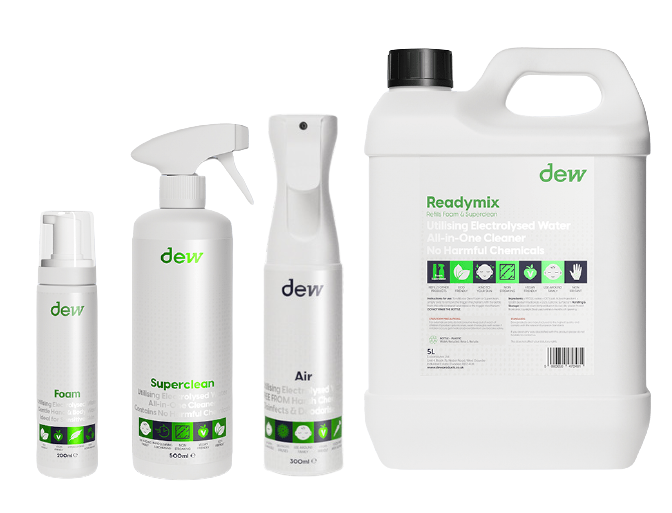
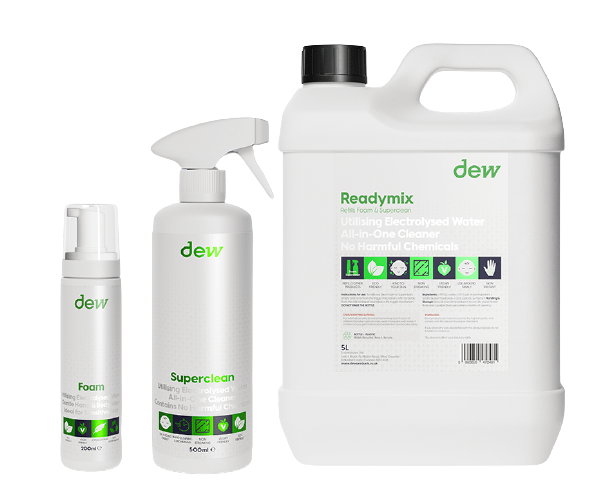
changed category images

diff --git a/src/pages/index.js b/src/pages/index.js
@@ -4,10 +4,10 @@ import Helmet from 'react-helmet'
 import Layout from '../components/layout'
 import HomepageBanner from '../components/HomepageBanner'
 
-import disinfectPack from '../assets/images/DisinfectPack2_1296x.png'
+import cleanProtection from '../assets/images/cleanProtection.png'
 import officeMister from '../assets/images/officeMister.jpg'
 import foggingMachine from '../assets/images/foggingMachine.jpg'
-import supercleanPack from '../assets/images/SupercleanPack2_1296x.png'
+import handSanitiser from '../assets/images/handSanitiser.png'
 
 class HomeIndex extends React.Component {
   render() {
@@ -49,17 +49,17 @@ class HomeIndex extends React.Component {
               </header>
               <Link to="/foggers_misters" className="link primary"></Link>
             </article>
-            <article style={{ backgroundImage: `url(${disinfectPack})` }}>
+            <article style={{ backgroundImage: `url(${handSanitiser})` }}>
               <header className="major">
-                <h3>Hand Sanitiser</h3>
-                <p>Fast-acting, skin-friendly, alcohol-free hand sanitiser</p>
+                <h3>Hand Sanitiser & Disinfectant</h3>
+                <p>Fast-acting, skin-friendly, alcohol-free hand sanitiser and disinfectant</p>
               </header>
               <Link to="/hand_sanitiser" className="link primary"></Link>
             </article>
-            <article style={{ backgroundImage: `url(${supercleanPack})` }}>
+            <article style={{ backgroundImage: `url(${cleanProtection})` }}>
               <header className="major">
                 <h3>Clean Protection</h3>
-                <p>Eco-friendly multi-purpose surface cleaners</p>
+                <p>Eco-friendly, skin safe, multi-purpose surface cleaner, hand & body wash</p>
               </header>
               <Link to="/clean_protection" className="link primary" />
             </article>

diff --git a/src/pages/hand_sanitiser.js b/src/pages/hand_sanitiser.js
@@ -56,6 +56,12 @@ const HandSanitiser = props => (
             remains active until it evaporates or naturally decays back to its
             original components of just water and salt.
           </p>
+          <p>
+            DEW Air - Supplied in a specially designed trigger spray nebuliser
+            that generates a super-fine spray without the use of an aerosol. For
+            immediate use, providing rapid relief for allergy and hay-fever
+            suffers.
+          </p>
           <h4>
             <span>For a full list of products & pricing </span>
             <Link to="/#order" style={{ textDecoration: 'underline' }}>

diff --git a/src/pages/clean_protection.js b/src/pages/clean_protection.js
@@ -37,12 +37,6 @@ const CleanProtection = props => (
             for stainless steel, anti-fogging on glass, cleaning of surfaces in
             the house or the car.
           </p>
-          <p>
-            DEW Air - Supplied in a specially designed trigger spray nebuliser
-            that generates a super-fine spray without the use of an aerosol. For
-            immediate use, providing rapid relief for allergy and hay-fever
-            suffers.
-          </p>
           <h4>
             <span>For a full list of products & pricing </span>
             <Link to="/#order" style={{ textDecoration: 'underline' }}>
